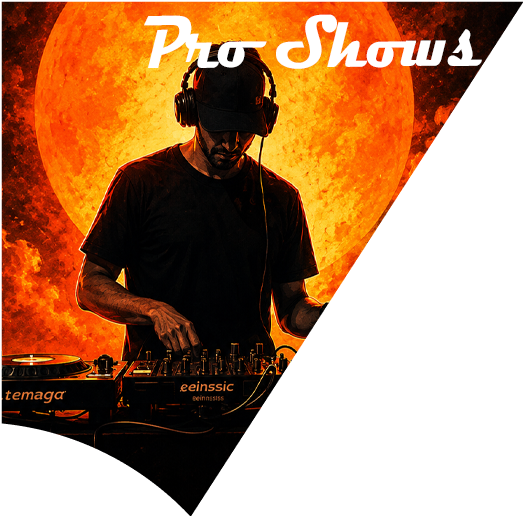
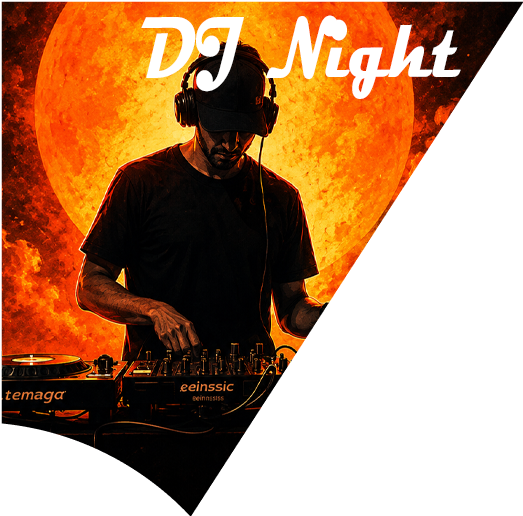
Text elements of event assets have been changed

Changed region(s): [[0.2753, 0.0, 0.9178, 0.2171]]

diff --git a/src/pages/events/Events.tsx b/src/pages/events/Events.tsx
@@ -3,9 +3,9 @@ import Text from "/images/events/text.png";
 import dance from "/images/events/dancef.webp";
 import drama from "/images/events/dramaf.webp";
 import dramaMobile from "/images/events/DramaMobilef.png";
-import music from "/images/events/music1.webp";
+import music from "/images/events/music1.png";
 import misc from "/images/events/misc1.webp";
-import photography from "/images/events/proshow.webp";
+import photography from "/images/events/proshow.png";
 import danceMobile from "/images/events/DanceMobilef.png";
 import musicMobile from "/images/events/MusicMobilef.png";
 import miscMobile from "/images/events/MiscMobilef.png";
